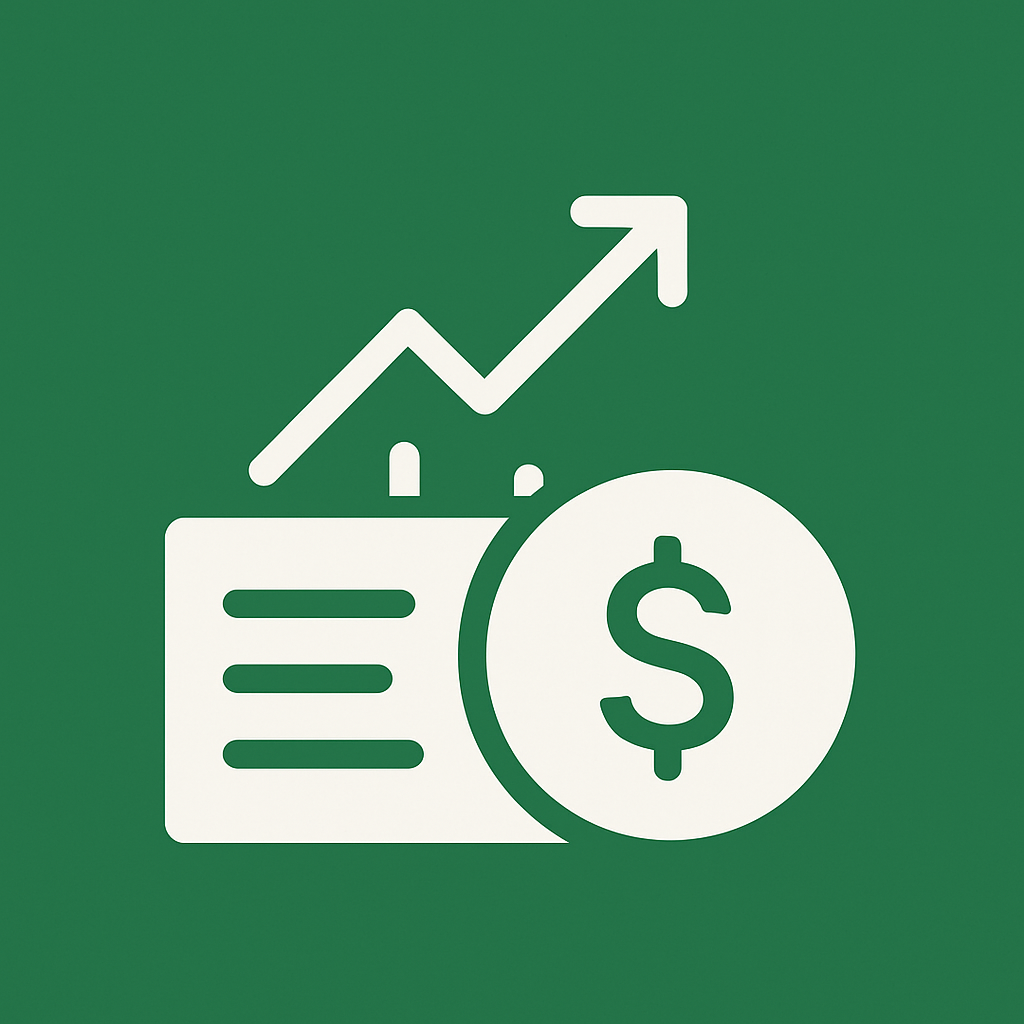
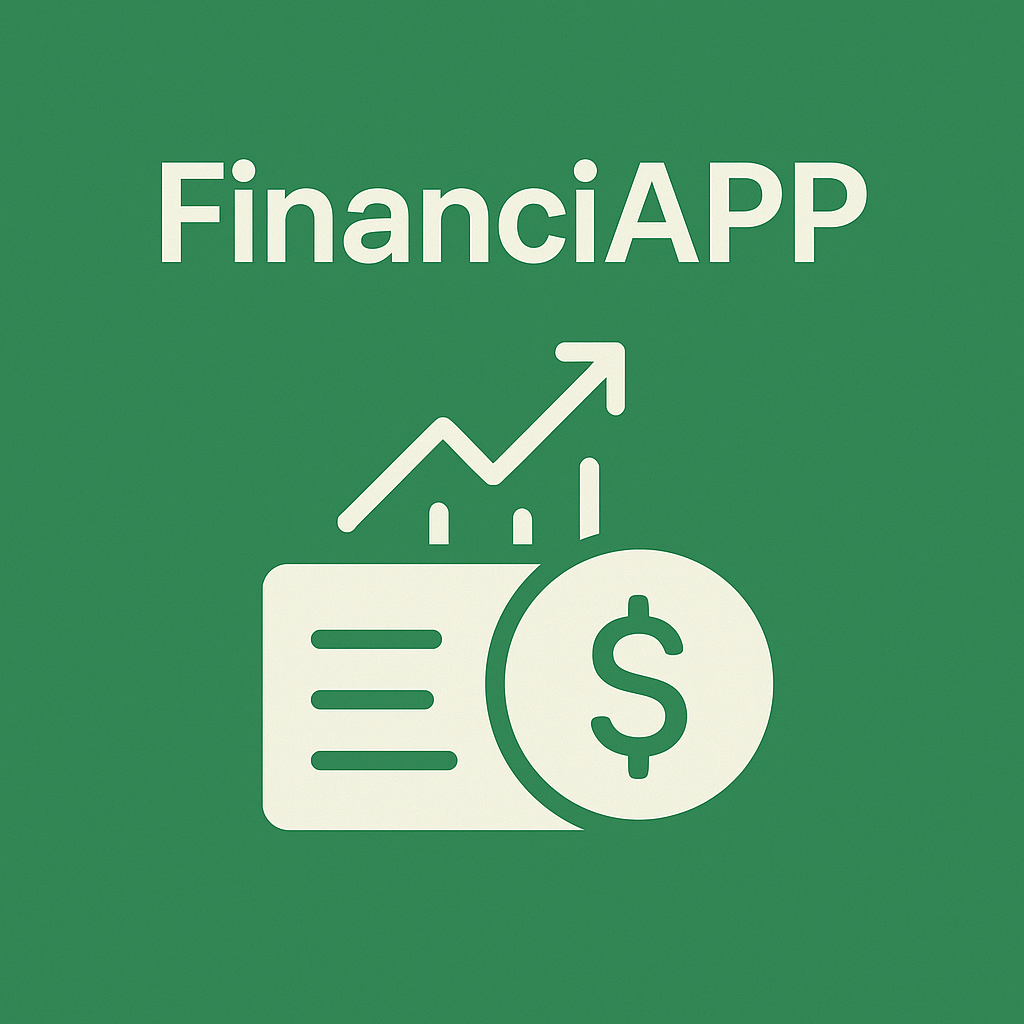
ffix: fix upon themes and UI/UX styling for login screen

Changed region(s): [[0.1562, 0.1562, 0.8438, 0.8438]]

diff --git a/screens/auth/login.tsx b/screens/auth/login.tsx
@@ -1,9 +1,10 @@
 import React, { useState } from 'react';
 import { View, Image, KeyboardAvoidingView, Platform, Text } from 'react-native';
-import { TextInput, useTheme, IconButton, Button } from 'react-native-paper';
+import { TextInput, Button, useTheme, Icon } from 'react-native-paper';
 
 const LoginScreen: React.FC = () => {
-  const paperTheme = useTheme();
+
+  const theme = useTheme() as any;
   const [email, setEmail] = useState('');
   const [password, setPassword] = useState('');
   const [showPassword, setShowPassword] = useState(false);
@@ -11,7 +12,7 @@ const LoginScreen: React.FC = () => {
   return (
     <KeyboardAvoidingView style={{ 
       flex: 1, 
-      backgroundColor: paperTheme.colors.background,
+      backgroundColor: theme.custom.background.container,
       flexDirection: 'column',
       justifyContent: 'center',
       alignItems: 'center',
@@ -21,7 +22,7 @@ const LoginScreen: React.FC = () => {
     keyboardVerticalOffset={Platform.OS === 'ios' ? -140 : 0}>
       
       <Image
-        source={require('../../assets/images/splash-icon.png')}
+        source={require('../../assets/images/icon.png')}
         style={{ width: 200, height: 200 }}
         resizeMode="contain"
       />
@@ -31,55 +32,68 @@ const LoginScreen: React.FC = () => {
         gap: 20
       }}>
         <TextInput
-          label={<Text style={{ color: paperTheme.colors.primary }}>E-mail</Text>}
-          placeholder="E-mail"
+          label={<Text style={{ color: theme.custom.font.dark }}>E-mail</Text>}
+          placeholder="johndoe@example.com"
           value={email}
           onChangeText={setEmail}
-          mode="outlined"
-          outlineStyle={{ borderColor: paperTheme.colors.primary }}
-          placeholderTextColor={paperTheme.colors.primary}
-          textColor={paperTheme.colors.primary}
-          style={{ width: '100%' }}
+          mode="flat"
+          activeUnderlineColor={theme.custom.underline}
+          underlineColor={theme.custom.underline}
+          outlineStyle={{ borderColor: theme.custom.outline }}
+          textColor={theme.custom.font.dark}
+          style={{ width: '100%', backgroundColor: theme.custom.background.input }}
           keyboardType="email-address"
           autoCapitalize="none"
         />
         <TextInput
-          label={<Text style={{ color: paperTheme.colors.primary }}>Password</Text>}
-          placeholder="Password"
+          label={<Text style={{ color: theme.custom.font.dark }}>Password</Text>}
           value={password}
           onChangeText={setPassword}
-          mode="outlined"
+          mode="flat"
+          activeUnderlineColor={theme.custom.underline}
+          underlineColor={theme.custom.underline}
           secureTextEntry={!showPassword}
-          outlineStyle={{ borderColor: paperTheme.colors.primary }}
-          placeholderTextColor={paperTheme.colors.primary}
-          textColor={paperTheme.colors.primary}
-          style={{ width: '100%' }}
+          outlineStyle={{ borderColor: theme.custom.outline }}
+          placeholderTextColor={theme.custom.font.dark}
+          textColor={theme.custom.font.dark}
+          style={{ width: '100%', backgroundColor: theme.custom.background.input }}
           right={
             <TextInput.Icon 
               icon={showPassword ? 'eye-off' : 'eye'}
               onPress={() => setShowPassword(!showPassword)}
-              color={paperTheme.colors.primary}
+              color={theme.custom.font.dark}
             />
           }
         />
         <View style={{ flexDirection: 'row', justifyContent: 'space-between' }}>
           <Button
-            mode="contained"
+            mode="elevated"
             onPress={() => {}}
-            style={{ width: '48%', borderRadius: 2 }}
-            labelStyle={{ color: paperTheme.colors.surface }}
+            style={{
+              width: '48%',
+              borderRadius: 15,
+              backgroundColor: theme.custom.button.primary,
+             }}
+            icon="login"
+            labelStyle={{ color: theme.custom.font.light }}
           >
-            <Text style={{ color: paperTheme.colors.surface }}>Login</Text>
+            <Text style={{ 
+              color: theme.custom.font.light,
+              fontWeight: 'bold'
+            }}>Login</Text>
           </Button>
           <Button
-            mode="contained"
+            mode="elevated"
             onPress={() => {}}
-            style={{ width: '48%', borderRadius: 2,
+            style={{
+              width: '48%',
+              borderRadius: 15,
+              backgroundColor: theme.custom.button.secondary,
              }}
-            labelStyle={{ color: paperTheme.colors.surface }}
+            labelStyle={{ color: theme.custom.font.dark }}
+            icon="account-plus"
           >
-            <Text style={{ color: paperTheme.colors.surface }}>Register</Text>
-
+            <Text style={{ color: theme.custom.font.dark }}>Register</Text>
           </Button>
         </View>
       </View>

diff --git a/hooks/use-theme.ts b/hooks/use-theme.ts
@@ -1,65 +1,48 @@
-import React from 'react';
-import { create } from 'zustand'
-import { MD3LightTheme, MD3DarkTheme } from 'react-native-paper';
-import { useColorScheme } from 'react-native';
+import { DefaultTheme } from "react-native-paper";
 
-export const light_theme = {
-    ...MD3LightTheme,
-    colors: {
-      ...MD3LightTheme.colors,
-      primary: '#0F2D25',
-      background: '#237348',
-      surface: '#FFFFFF',
-      onSurface: '#0F2D25',
-      onBackground: '#0F2D25',
-    },
-    custom: {
-      font: '#0F2D25',
-      background: '#E6F2EF',
-      containerBackground: '#FFFFFF',
+declare global {
+  namespace ReactNativePaper {
+    interface Theme {
+      custom: {
+        background: {
+          container: string;
+          input: string;
+          view: string;
+        };
+        font: {
+          light: string;
+          dark: string;
+        };
+        outline: string;
+        underline: string;
+        button: {
+          primary: string;
+          secondary: string;
+        };
+      };
     }
-  };
-  
-  export const dark_theme = {
-    ...MD3DarkTheme,
-    colors: {
-      ...MD3DarkTheme.colors,
-      primary: '#E6F2EF',
-      background: '#308653',
-      surface: '#1C4036',
-      onSurface: '#E6F2EF',
-      onBackground: '#E6F2EF',
-    },
-    custom: {
-      font: '#E6F2EF',
-      background: '#0F2D25',
-      containerBackground: '#1C4036',
-    }
-  };
-
-interface ThemeState {
-    isDark: boolean;
-    toggleTheme: () => void;
   }
+}
 
-export const useTheme = create<ThemeState>((set, get) => ({
-    isDark: false,
-    toggleTheme: () => set((state) => ({ isDark: !state.isDark })),
-  }))
-
-export const useAppTheme = () => {
-  const { isDark, toggleTheme } = useTheme();
-  const systemColorScheme = useColorScheme();
-  
-  React.useEffect(() => {
-    useTheme.setState({ isDark: systemColorScheme === 'dark' });
-  }, [systemColorScheme]);
-
-  const theme = isDark ? dark_theme : light_theme;
-  
-  return {
-    isDark,
-    toggleTheme,
-    theme,
-  };
+const theme = {
+  ...DefaultTheme,
+  custom: {
+    background: {
+      container: '#308653',
+      input: '#FFFFFF',
+      view: '#1e293b',
+    },
+    font: {
+      light: "#FFFFFF",
+      dark: "#000000"
+    },
+    outline: "#FFFFFF",
+    underline: "#000000",
+    button: {
+      primary: "#2563EB",
+      secondary: "#F59E0B"
+    }
+  },
 };
+
+export default theme;

diff --git a/index.tsx b/index.tsx
@@ -1,10 +1,9 @@
 import { registerRootComponent } from 'expo';
 import { PaperProvider } from 'react-native-paper';
-import { useAppTheme } from './hooks/use-theme';
 import App from './App';
+import theme from './hooks/use-theme';
 
 const MainApp = () => {
-  const { theme } = useAppTheme();
   
   return (
     <PaperProvider theme={theme}>
